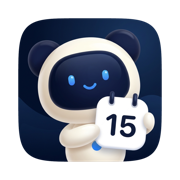
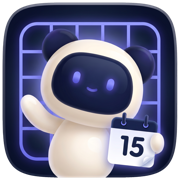
0.19.0 — Widget-Klick öffnet Apple Kalender am heutigen Tag
- URL-Schema kalli:, angenommen wird nur kalli://kalender-heute (CalendarToday)
- festes AppleScript an Apple Kalender, danach yieldActivation + NSWorkspace
- Berechtigung automation.apple-events, Sicherheitsentwurf K3, code-audit ohne Defekt
- Doku: CHANGELOG, Hilfe, README, Rechtliches, Datenschutz, Website, One-Pager
- Website-Symbole auf das Familien-Maskottchen

diff --git a/Kalli/App/CalendarToday.swift b/Kalli/App/CalendarToday.swift
@@ -1,0 +1,102 @@
+import AppKit
+import OSLog
+
+/// Klick aufs Widget „Tagesblatt“ öffnet Apple Kalender am heutigen Tag (Michael 2026-11-27).
+///
+/// Kalli ist eine reine Menüleisten-App ohne Fenster: Ohne Klickziel machte der Widget-Klick
+/// Kalli nur aktiv, sichtbar passierte nichts. Das Widget trägt deshalb den festen Link
+/// `kalli://kalender-heute`, Kalli nimmt ihn an und schickt Apple Kalender auf heute.
+///
+/// Eng gehalten, weil ein URL-Schema Eingaben von außen annimmt (jede App und jede Webseite
+/// kann einen `kalli:`-Link öffnen):
+/// - Angenommen wird nur genau dieser eine Link, ohne Pfad, Abfrage oder Anker. Alles andere
+///   wird ignoriert und protokolliert.
+/// - Der Link trägt keine Daten; das Skript ist fester Text ohne Parameter, Ziel fest Apple Kalender.
+///   Schlimmstenfalls öffnet ein fremder Link also Kalender in der Tagesansicht von heute.
+/// - Das Skript läuft nicht auf dem Hauptthread und hat 60 Sekunden Zeitlimit: Beim ersten Klick
+///   fragt macOS „Kalli darf Kalender steuern?“, und das Skript wartet auf die Antwort. Mit 5 Sekunden
+///   lief es während des Dialogs ab (gemessen 2026-11-27, Fehler -1712).
+/// - Fehlt die Erlaubnis „Kalli darf Kalender steuern“ oder scheitert das Skript, öffnet Kalli
+///   Kalender trotzdem (ohne Tageswahl) und protokolliert den Grund.
+nonisolated enum CalendarToday {
+    static let url = URL(string: "kalli://kalender-heute")!
+
+    private static let log = Logger(subsystem: "com.kalli.app", category: "widget-klick")
+    private static let queue = DispatchQueue(label: "com.kalli.app.kalender-heute", qos: .userInitiated)
+    private static let calendarBundleID = "com.apple.iCal"
+
+    static let source = """
+    with timeout of 60 seconds
+        tell application "Calendar"
+            switch view to day view
+            view calendar at (current date)
+        end tell
+    end timeout
+    """
+
+    /// Nur genau `kalli://kalender-heute`, Groß-/Kleinschreibung von Schema und Host egal.
+    static func matches(_ candidate: URL) -> Bool {
+        guard let parts = URLComponents(url: candidate, resolvingAgainstBaseURL: false) else { return false }
+        return parts.scheme?.lowercased() == "kalli"
+            && parts.host?.lowercased() == "kalender-heute"
+            && parts.user == nil && parts.password == nil && parts.port == nil
+            && (parts.path.isEmpty || parts.path == "/")
+            && parts.query == nil && parts.fragment == nil
+    }
+
+    @MainActor
+    static func handle(_ urls: [URL]) {
+        for candidate in urls {
+            if matches(candidate) {
+                log.notice("Widget-Klick: Kalender auf heute")
+                open()
+            } else {
+                // Nur Schema und Host ins Protokoll, nie den Rest (fremde Eingabe).
+                log.notice("Link ignoriert: \(candidate.scheme ?? "-", privacy: .public)://\(candidate.host ?? "-", privacy: .public)")
+            }
+        }
+    }
+
+    private static func open() {
+        queue.async {
+            var error: NSDictionary?
+            NSAppleScript(source: source)?.executeAndReturnError(&error)
+            if let error {
+                let number = error[NSAppleScript.errorNumber] as? Int ?? 0
+                log.error("Kalender-Skript gescheitert (\(number, privacy: .public)), öffne Kalender ohne Tageswahl")
+            } else {
+                log.notice("Kalender zeigt heute")
+            }
+            DispatchQueue.main.async { bringToFront() }
+        }
+    }
+
+    /// Kalender nach vorn holen. `activate` im Skript reicht nicht: Seit macOS 14 darf eine
+    /// Hintergrund-App eine andere App nicht einfach nach vorn holen (gemessen 2026-11-27: Kalender
+    /// stellte sich auf heute, blieb aber hinten). Kalli gibt den Vordergrund deshalb ausdrücklich an
+    /// Kalender ab und öffnet ihn dann über das System.
+    @MainActor
+    private static func bringToFront() {
+        guard let app = NSWorkspace.shared.urlForApplication(withBundleIdentifier: calendarBundleID) else {
+            log.error("Apple Kalender nicht gefunden")
+            return
+        }
+        NSApp.yieldActivation(toApplicationWithBundleIdentifier: calendarBundleID)
+        let config = NSWorkspace.OpenConfiguration()
+        config.activates = true
+        NSWorkspace.shared.openApplication(at: app, configuration: config) { running, error in
+            if let error {
+                log.error("Kalender nicht geöffnet: \(error.localizedDescription, privacy: .public)")
+            } else {
+                log.notice("Kalender nach vorn, aktiv \(running?.isActive ?? false, privacy: .public)")
+            }
+        }
+    }
+}
+
+/// Nimmt Links an, die macOS an Kalli schickt (Widget-Klick). Siehe `CalendarToday`.
+final class KalliAppDelegate: NSObject, NSApplicationDelegate {
+    func application(_ application: NSApplication, open urls: [URL]) {
+        CalendarToday.handle(urls)
+    }
+}

diff --git a/docs/datenschutz.html b/docs/datenschutz.html
@@ -118,7 +118,7 @@
   <ul>
     <li>Kalender liest Kalli. Einen neuen Termin (Titel, Beginn, Ende) legt Kalli nur an, wenn du ihn in Gnotchis Schnelleingabe auf demselben Mac eingibst; Kalli prüft die Anfrage vorher und löscht per ⌘Z nur einen Eintrag, der in den letzten 30 Sekunden auf diesem Weg entstand. Bei Erinnerungen setzt es das Erledigt-Kennzeichen, wenn du das Häkchen anklickst, und legt ab Version 0.10 eine neue Erinnerung in deiner Standardliste an (Titel, Fälligkeit, bei Uhrzeit ein Alarm, bei „Dringend“ die Priorität „Hoch“), wenn du sie über das Plus sicherst. Bestehende Einträge werden nicht umbenannt, verschoben oder gelöscht.</li>
     <li>Gespeichert werden nur deine Einstellungen auf deinem Mac, keine Termininhalte.</li>
-    <li>Ab Version 0.18 gibt es ein Widget „Tagesblatt“. Legst du es auf den Schreibtisch, liest es Termine und Aufgaben von heute mit der Erlaubnis, die du Kalli gegeben hast, und macOS zeigt sie dort an. Das Widget darf nichts ändern, hat keinen Netzzugang und bleibt auf deinem Mac.</li>
+    <li>Ab Version 0.18 gibt es ein Widget „Tagesblatt“. Legst du es auf den Schreibtisch, liest es Termine und Aufgaben von heute mit der Erlaubnis, die du Kalli gegeben hast, und macOS zeigt sie dort an. Das Widget darf nichts ändern, hat keinen Netzzugang und bleibt auf deinem Mac. Ein Klick darauf öffnet Apple Kalender am heutigen Tag; dafür bittet Kalli einmal um die Erlaubnis, Kalender zu steuern. Kalli liest oder ändert dabei nichts in Kalender.</li>
     <li>Schaltest du die Systemmitteilung vor dem Termin ein (ab Werk aus), gibt Kalli Titel und Uhrzeit an macOS weiter. Je nach deinen macOS-Einstellungen erscheinen sie in der Mitteilungszentrale und auf dem Sperrbildschirm. Das bleibt auf dem Gerät.</li>
     <li>„Link öffnen“ im Vollbild-Hinweis übergibt die Adresse aus dem Termin erst auf deinen Klick an deinen Standardbrowser. Kalli ruft sie nicht selbst ab.</li>
     <li>Ab Version 0.17 kann Kalli den nächsten Termin (Titel mit höchstens 40 Zeichen und Beginn) an einen Server schicken, den du selbst einträgst, damit ein Gerät auf deinem Schreibtisch ihn anzeigt. Das ist ab Werk aus. Die Daten gehen per HTTPS nur an diese eine Adresse, nicht an den Anbieter von Kalli. Wer den Server betreibt, ist für die Daten dort verantwortlich.</li>

diff --git a/docs/index.html b/docs/index.html
@@ -4,7 +4,7 @@
 <meta charset="UTF-8">
 <meta name="viewport" content="width=device-width, initial-scale=1.0">
 <!-- Erst erhöhen, wenn diese Seite gegen das Release gelesen wurde (Release-Profil app-release/references/kalli.md). -->
-<meta name="kalli:documented-version" content="0.18.0">
+<meta name="kalli:documented-version" content="0.19.0">
 <title>Kalli: Kalender in der Menüleiste für macOS, bewusst klein</title>
 <meta name="description" content="Kalli zeigt Datum, nächsten Termin und Erinnerungen in der Menüleiste deines Macs. Mit Vollbild-Hinweis vor dem Termin. Kostenlos, Open Source, kein Server.">
 <link rel="icon" href="favicon.png" type="image/png">
@@ -65,7 +65,7 @@
       <span>Kalli</span>
     </a>
     <div class="nav-links">
-      <a class="anchor" href="#neu">Neu in 0.18</a>
+      <a class="anchor" href="#neu">Neu in 0.19</a>
       <a class="anchor" href="#funktionen">Funktionen</a>
       <a class="anchor" href="#datenschutz">Datenschutz</a>
       <a href="https://github.com/miwixyz/Kalli"><svg class="ico" aria-hidden="true"><use href="#i-github"/></svg><span class="anchor">GitHub</span><span class="visually-hidden">Kalli auf GitHub</span></a>
@@ -127,6 +127,14 @@
 </header>
 
 <section id="neu">
+  <div class="wrap">
+    <span class="eyebrow">Neu in 0.19</span>
+    <h2>Ein Klick aufs Widget öffnet den Kalender</h2>
+    <p class="lead">Klickst du auf das Tagesblatt-Widget, öffnet Kalli Apple Kalender in der Tagesansicht von heute. Beim ersten Klick fragt macOS, ob Kalli den Kalender steuern darf. Kalli liest oder ändert dabei nichts. Neu ist auch ein kurzer Ton zum Vollbild-Hinweis, ab Werk aus, und Kalli trägt jetzt das Symbol der App-Familie.</p>
+  </div>
+</section>
+
+<section id="widget">
   <div class="wrap">
     <span class="eyebrow">Neu in 0.18</span>
     <h2>Das Tagesblatt als Widget</h2>

diff --git a/KalliTests/CalendarTodayTests.swift b/KalliTests/CalendarTodayTests.swift
@@ -1,0 +1,35 @@
+import XCTest
+
+/// Widget-Klick (0.18.1): Kalli nimmt nur genau `kalli://kalender-heute` an (fremde Eingabe).
+final class CalendarTodayTests: XCTestCase {
+    func testWidgetLinkMatches() {
+        XCTAssertTrue(CalendarToday.matches(CalendarToday.url))
+        XCTAssertTrue(CalendarToday.matches(URL(string: "KALLI://Kalender-Heute")!))
+        XCTAssertTrue(CalendarToday.matches(URL(string: "kalli://kalender-heute/")!))
+    }
+
+    func testOtherLinksAreIgnored() {
+        let others = [
+            "kalli://kalender-heute?datum=2020-01-01",
+            "kalli://kalender-heute#x",
+            "kalli://kalender-heute/irgendwas",
+            "kalli://user@kalender-heute",
+            "kalli://kalender-heute:80",
+            "kalli://kalender",
+            "kalli:",
+            "https://kalender-heute",
+            "ical://kalender-heute",
+        ]
+        for text in others {
+            XCTAssertFalse(CalendarToday.matches(URL(string: text)!), text)
+        }
+    }
+
+    func testScriptHasNoParametersAndFixedTarget() {
+        let source = CalendarToday.source
+        XCTAssertTrue(source.contains("tell application \"Calendar\""))
+        XCTAssertFalse(source.contains("on run"))
+        XCTAssertFalse(source.contains("do shell script"))
+        XCTAssertEqual(source.components(separatedBy: "tell application").count, 2)
+    }
+}

diff --git a/Kalli/App/KalliApp.swift b/Kalli/App/KalliApp.swift
@@ -6,6 +6,9 @@ import WidgetKit
 @main
 struct KalliApp: App {
 
+    /// Nimmt den Link vom Widget-Klick an (0.18.1): öffnet Apple Kalender am heutigen Tag.
+    @NSApplicationDelegateAdaptor(KalliAppDelegate.self) private var appDelegate
+
     @State private var prefs: Preferences
     @State private var store: CalendarStore
     @State private var label: MenuBarLabel

diff --git a/KalliWidget/DayPageWidget.swift b/KalliWidget/DayPageWidget.swift
@@ -60,6 +60,8 @@ struct DayPageView: View {
             }
         }
         .containerBackground(for: .widget) { PunktiGlassBackground() }
+        // Klick öffnet Apple Kalender am heutigen Tag (über Kalli, siehe CalendarToday).
+        .widgetURL(URL(string: "kalli://kalender-heute"))
     }
 
     /// Zeile unter der Tageszahl: Monat und, was heute ansteht.

diff --git a/Kalli/Resources/RECHTLICHES.md b/Kalli/Resources/RECHTLICHES.md
@@ -33,6 +33,7 @@ Was Kalli liest:
 | Gnotchi, Schnelleingabe (nur auf diesem Mac, ab 0.16.0) | **empfangen** über dieselbe geprüfte Verbindung wie der Termin, nur von einem echten, signierten Gnotchi | Termin oder Erinnerung anlegen, die du in Gnotchi eintippst (Titel, Zeitpunkt, Art, dringend). Kalli prüft jede Anfrage selbst und löscht per ⌘Z nur einen Eintrag, der in den letzten 30 Sekunden über diesen Weg entstand. Nichts davon wird gespeichert oder protokolliert außer dem Eintrag selbst |
 | Briefkasten fürs Schreibtischgerät (Netz, ab 0.17.0) | **senden**, nur wenn du „Schreibtischgerät“ einschaltest und eine eigene Adresse samt Schlüssel einträgst (ab Werk aus) | den nächsten Termin auf einem Gerät am Schreibtisch zeigen. Gesendet werden nur Titel (höchstens 40 Zeichen) und Beginn, per HTTPS an die Adresse, die du einträgst, bei jeder Änderung und alle 5 Minuten. Keine Teilnehmer, Orte, Notizen oder Kalendernamen. Was der Server damit macht, liegt bei dem, der ihn betreibt |
 | Widget „Tagesblatt“ (nur auf diesem Mac, ab 0.18.0) | **lesen**, nur wenn du das Widget auf den Schreibtisch legst | Termine und Aufgaben von heute im Widget zeigen. Das Widget liest Kalender und Erinnerungen selbst, mit der Erlaubnis, die du Kalli gegeben hast, und darf nichts ändern, nicht ins Netz und keine Dateien lesen. Was es zeigt, zeichnet macOS auf dem Schreibtisch |
+| Apple Kalender steuern (ab 0.19.0) | **Ansicht wechseln**, nur beim Klick aufs Widget und mit deiner Erlaubnis „Kalli darf Kalender steuern“ | Kalender in der Tagesansicht von heute öffnen. Kalli liest dabei nichts aus Kalender und ändert keine Termine |
 | Mitteilungen (macOS) | **schreiben**, nur wenn du sie einschaltest | Hinweis vor einem Termin |
 | GitHub (Netz) | **abrufen**, nur für Updates | Nachsehen, ob eine neuere Fassung vorliegt |
 | Gnotchi, Termin (nur auf diesem Mac, ab 0.12.0) | **senden**, nur an ein echtes, signiertes Gnotchi, das Kalli vorher über eine geschützte lokale Verbindung geprüft hat | den nächsten Termin 15 Minuten vor Beginn in der Notch zeigen. Gesendet werden nur Titel (höchstens 200 Zeichen), Beginn und Kalenderfarbe des Termins, den die Menüleiste ohnehin zeigt. Gnotchi speichert ihn nicht. Andere Programme können die Verbindung nicht lesen |

diff --git a/docs/SECURE-DESIGN.md b/docs/SECURE-DESIGN.md
@@ -160,3 +160,21 @@ Kalli-Seite von Gnotchis G61 (`~/Coding/Gnotchi/docs/SECURE-DESIGN.md`, Spezifik
   verwarf Bytes, die im selben Lesevorgang hinter Gnotchis `ok` kamen; jetzt gehen sie in den Eingangspuffer, Test
   mit echter Socket-Verbindung. gitleaks und Swift-Advisories sauber. Kein `rafter run` (Zweitmeinung erst vor dem
   Release).
+
+### K3 – Widget-Klick: URL-Schema `kalli:` und Apple Events an Kalender (neu, 2026-11-27, 0.18.1)
+
+- **Anlass:** Der Klick aufs Tagesblatt-Widget tat nichts (Kalli ist Menüleisten-App ohne Fenster). Michael: Klick
+  öffnet Apple Kalender am heutigen Tag.
+- **Neue Fläche:** URL-Schema `kalli:` (jede App und Webseite kann einen solchen Link öffnen) und die Berechtigung
+  `com.apple.security.automation.apple-events` mit `NSAppleEventsUsageDescription`.
+- **Eingrenzung:** Angenommen wird nur genau `kalli://kalender-heute`, ohne Nutzer, Port, Pfad, Abfrage, Anker
+  (`CalendarToday.matches`, Tests). Der Link trägt keine Daten. Das Skript ist fester Text ohne Parameter, Ziel fest
+  Apple Kalender, nur Ansicht wechseln. Schlimmstenfalls öffnet ein fremder Link Kalender am heutigen Tag. Protokoll
+  bei fremden Links nur Schema und Host.
+- **Zeitlimit 60 s** im Skript, auf eigener Warteschlange: Beim ersten Klick wartet es auf die Abfrage „Kalli darf
+  Kalender steuern“ (mit 5 s lief es ab, Fehler -1712). Fehlt die Erlaubnis, öffnet Kalli Kalender ohne Tageswahl.
+- **Vordergrund:** `activate` im Skript holte Kalender nicht nach vorn (Hintergrund-App). Kalli gibt den Vordergrund
+  mit `yieldActivation` an Kalender ab und öffnet ihn über `NSWorkspace` (gemessen: danach ist Kalender vorn).
+- **Prüfung (27.11.):** `/code-audit` (Default) ohne Defekt, zwei ⚪ umgesetzt (Messpunkt entfernt, Hinweis auf die
+  Automation-Erlaubnis in Hilfe und CHANGELOG). osv, Swift-Advisories, gitleaks sauber.
+

diff --git a/CHANGELOG.md b/CHANGELOG.md
@@ -2,7 +2,17 @@
 
 Alle nennenswerten Änderungen an Kalli.
 
-## Unveröffentlicht
+## [0.19.0] — 2026-11-27
+
+Ein Klick aufs Tagesblatt-Widget öffnet Apple Kalender am heutigen Tag, dazu ein Ton zum
+Vollbild-Hinweis und das neue App-Symbol der App-Familie.
+
+### Behoben
+
+- **Klick aufs Tagesblatt-Widget tat nichts:** Er öffnet jetzt Apple Kalender in der Tagesansicht
+  von heute. Beim ersten Klick fragt macOS, ob Kalli Kalender steuern darf. Springt Kalender nicht
+  auf heute: Systemeinstellungen → Datenschutz & Sicherheit → Automation → Kalli → Kalender
+  einschalten. Kalli liest oder ändert dabei nichts in Kalender.
 
 ### Neu
 
@@ -19,6 +29,11 @@ Alle nennenswerten Änderungen an Kalli.
 
 ### Intern
 
+- `Kalli/App/CalendarToday.swift`: URL-Schema `kalli:`, angenommen wird nur `kalli://kalender-heute`;
+  festes AppleScript an Apple Kalender (60 s Zeitlimit, eigene Warteschlange), danach
+  `yieldActivation` + `NSWorkspace`, damit Kalender nach vorn kommt. Neue Berechtigung
+  `com.apple.security.automation.apple-events` mit `NSAppleEventsUsageDescription`.
+  Sicherheitsentwurf K3 in `docs/SECURE-DESIGN.md`.
 - `Kalli/Core/AlertSound.swift` spielt `Kalli/Resources/kalli.caf` per `NSSound`; fehlende oder
   unlesbare Datei → `Logger` `.notice` (Kategorie `ton`). Ausgelöst in `FullScreenAlerts.fire`
   nach `presenter.show`, Einstellung `fullScreenSound` (Schlüssel `fullScreenSound`).

diff --git a/Kalli/Resources/CHANGELOG.md b/Kalli/Resources/CHANGELOG.md
@@ -2,7 +2,17 @@
 
 Alle nennenswerten Änderungen an Kalli.
 
-## Unveröffentlicht
+## [0.19.0] — 2026-11-27
+
+Ein Klick aufs Tagesblatt-Widget öffnet Apple Kalender am heutigen Tag, dazu ein Ton zum
+Vollbild-Hinweis und das neue App-Symbol der App-Familie.
+
+### Behoben
+
+- **Klick aufs Tagesblatt-Widget tat nichts:** Er öffnet jetzt Apple Kalender in der Tagesansicht
+  von heute. Beim ersten Klick fragt macOS, ob Kalli Kalender steuern darf. Springt Kalender nicht
+  auf heute: Systemeinstellungen → Datenschutz & Sicherheit → Automation → Kalli → Kalender
+  einschalten. Kalli liest oder ändert dabei nichts in Kalender.
 
 ### Neu
 
@@ -19,6 +29,11 @@ Alle nennenswerten Änderungen an Kalli.
 
 ### Intern
 
+- `Kalli/App/CalendarToday.swift`: URL-Schema `kalli:`, angenommen wird nur `kalli://kalender-heute`;
+  festes AppleScript an Apple Kalender (60 s Zeitlimit, eigene Warteschlange), danach
+  `yieldActivation` + `NSWorkspace`, damit Kalender nach vorn kommt. Neue Berechtigung
+  `com.apple.security.automation.apple-events` mit `NSAppleEventsUsageDescription`.
+  Sicherheitsentwurf K3 in `docs/SECURE-DESIGN.md`.
 - `Kalli/Core/AlertSound.swift` spielt `Kalli/Resources/kalli.caf` per `NSSound`; fehlende oder
   unlesbare Datei → `Logger` `.notice` (Kategorie `ton`). Ausgelöst in `FullScreenAlerts.fire`
   nach `presenter.show`, Einstellung `fullScreenSound` (Schlüssel `fullScreenSound`).

diff --git a/docs/ONE-PAGER.md b/docs/ONE-PAGER.md
@@ -18,7 +18,13 @@ Mehr will Kalli nicht sein. Wer nur wissen will, welcher Tag heute ist und was a
 
 ---
 
-## Neu in 0.18: Das Tagesblatt als Widget
+## Neu in 0.19: Ein Klick aufs Widget öffnet den Kalender
+
+Klickst du auf das Tagesblatt-Widget, öffnet Kalli Apple Kalender in der Tagesansicht von heute. Beim ersten Klick fragt macOS, ob Kalli den Kalender steuern darf. Kalli liest oder ändert dabei nichts. Neu ist auch ein kurzer Ton zum Vollbild-Hinweis, ab Werk aus, und Kalli trägt jetzt das Symbol der App-Familie.
+
+---
+
+## Seit 0.18: Das Tagesblatt als Widget
 
 Kallis Tagesblatt gibt es jetzt als Widget für den Schreibtisch, in drei Größen und im Glas-Look der Punkti-Widgets: Ein Ring aus Punkten zeigt den Tag im Monat, die Zahl leuchtet wie eine LED-Anzeige, daneben stehen die Termine und Aufgaben, die heute noch anstehen. Das Blatt hinter den Fenstern kann dieses Aussehen auch, und auf einem kleinen Bildschirm wird es so weit verkleinert, dass es ganz draufpasst. Das Widget liest deine Kalender nur, mit der Erlaubnis, die du Kalli gegeben hast, und hat keinen Zugang zum Netz.
 

diff --git a/README.md b/README.md
@@ -78,7 +78,7 @@ ansteht, bezahlt das mit Oberfläche.
   dieselben Quellen wie das Popover. Passt sich an kleine Bildschirme an.
 - **Tagesblatt als Widget** — Schreibtisch-Widget (Klein, Mittel, Groß) im Glas-Look der Punkti-Widgets:
   Tagesring mit LED-Tageszahl, anstehende Termine und Aufgaben von heute, in Groß mit Monat. Nur anzeigend,
-  liest lokal per EventKit
+  liest lokal per EventKit; ein Klick öffnet Apple Kalender am heutigen Tag
 - **Aufgaben des Tages** (ab 0.15.0) — einmal täglich zur eingestellten Stunde ein kleines
   Glasfenster oben links (verschiebbar, Stelle bleibt gespeichert) mit den heute fälligen, offenen Erinnerungen, abhakbar. **„In 1 Std.
   wieder“** schlummert, „Schließen“ gilt für den Tag. Nimmt keinen Fokus, **ab Werk aus**
